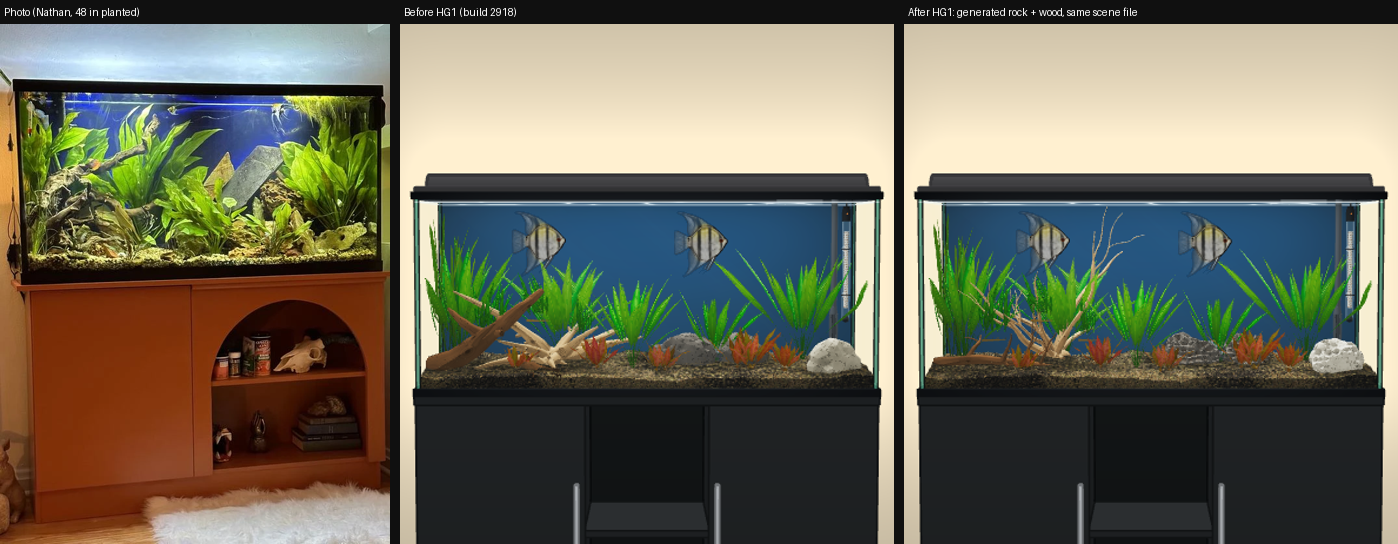
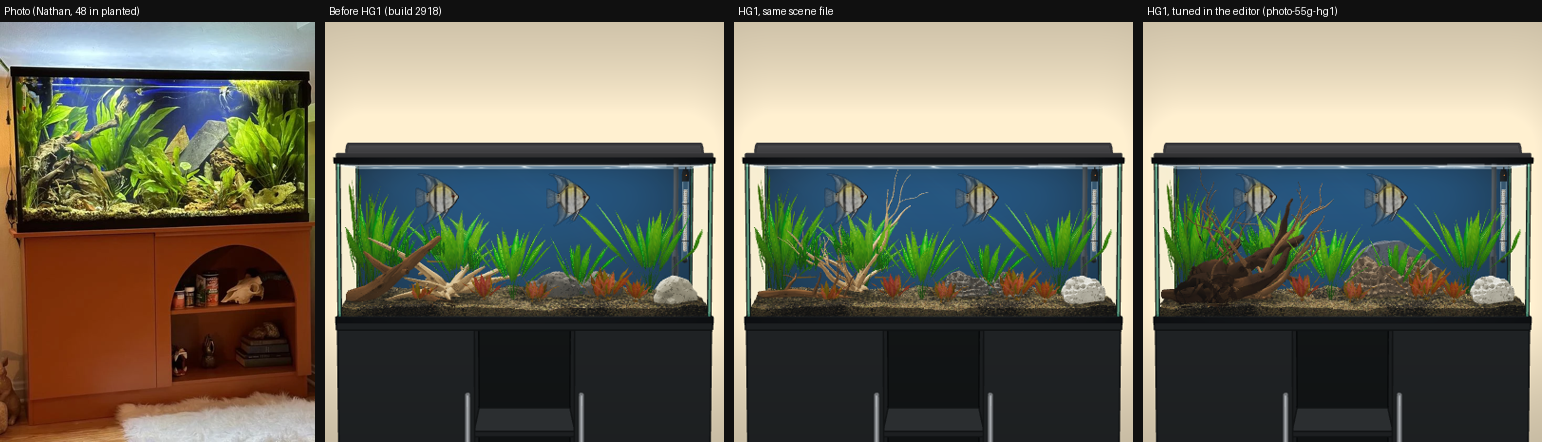
HG1 / R191: stronger cavity darkening (finer scale, deeper hollows); type sheets

diff --git a/src/render/rockgen.ts b/src/render/rockgen.ts
@@ -132,7 +132,7 @@ export function genRock(variant: string, seed: number, size: number, hs?: HardSt
   for (let i = 0; i < cnt; i++) p.setXYZ(i, (p.getX(i) - cx) * kx, (Math.max(p.getY(i), cut) - cut) * ky, (p.getZ(i) - cz) * kz);
   const facets = variant === 'shale' || variant === 'seiryu';
   g.computeVertexNormals();
-  const hollow = cavity(g, Math.max(l, w) / 40);
+  const hollow = cavity(g, Math.max(l, w) / 90);
   // unlit colours
   const col = new Float32Array(cnt * 3), q = new THREE.Color(), nm = g.attributes.normal;
   const rust = new THREE.Color('#7e6636'), rust2 = new THREE.Color('#664630'), vein = new THREE.Color('#d9dcd8'), crust = new THREE.Color('#7a6248'), dark = new THREE.Color('#141110');
@@ -161,7 +161,7 @@ export function genRock(variant: string, seed: number, size: number, hs?: HardSt
 }
 
 /** How dark the deepest hollows get (R191). */
-const CAV_DARK = 0.62;
+const CAV_DARK = 0.72;
 /**
  * Concavity per vertex of an indexed mesh, about -1 (a crest) .. 1 (a hollow): how far the average of its neighbours,
  * spread over a few rings, sits out along its normal, in units of `scale` mm. Baked into the colour so a rock's form
